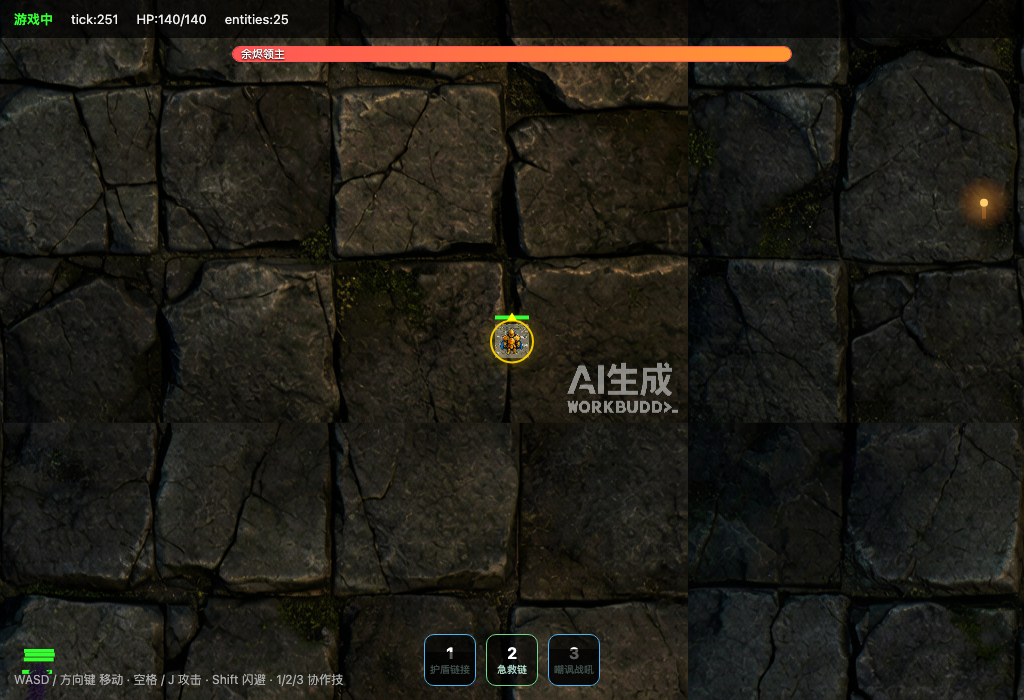
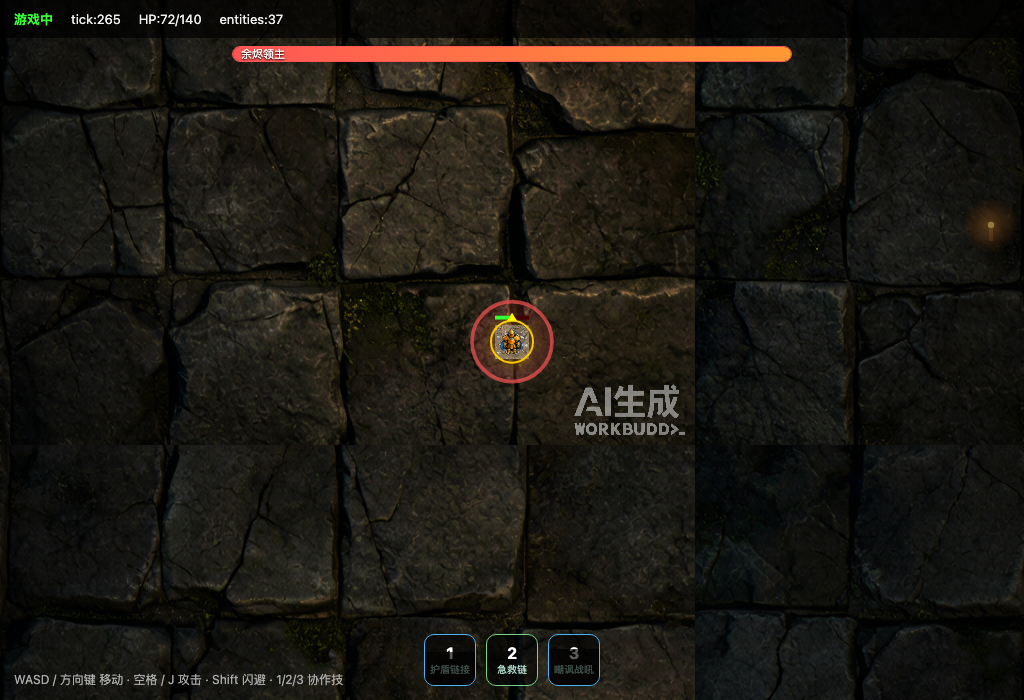
feat(games/dungeon-online): 氛围增强（暗角 vignette + 地牢环境音效）
- 新增屏幕暗角 radial-gradient，聚焦玩家并加深地牢氛围。
- 新增 WebAudio 低频环境 drone（52Hz + LFO），首次按键时启动。
- verify-client.mjs 真浏览器验证全绿（CoV 0.233，无报错）。

diff --git a/games/dungeon-online/apps/web-client/index.html b/games/dungeon-online/apps/web-client/index.html
@@ -220,9 +220,11 @@ function castSkill(id) {
 
 // ── WebAudio SFX (procedural, no asset files) ──
 let actx = null;
+let droneOsc = null, droneGain = null;
 function ensureAudio() {
   if (actx) { if (actx.state === 'suspended') actx.resume(); return; }
   try { actx = new (window.AudioContext || window.webkitAudioContext)(); } catch { actx = null; }
+  if (actx) startAmbient();
 }
 function tone(freq, dur, type, gain, when, slideTo) {
   if (!actx) return;
@@ -244,6 +246,17 @@ function sfxDeath() { tone(300, 0.30, 'sawtooth', 0.09, 0, 70); }
 function sfxPickup() { tone(660, 0.08, 'triangle', 0.10); tone(900, 0.11, 'triangle', 0.08, 0.07); }
 function sfxSkill() { tone(520, 0.12, 'triangle', 0.10, 0, 780); tone(780, 0.14, 'triangle', 0.08, 0.06); }
 function sfxDenied() { tone(150, 0.10, 'square', 0.05); }
+function startAmbient() {
+  if (!actx || droneOsc) return;
+  droneOsc = actx.createOscillator(); droneOsc.type = 'sine'; droneOsc.frequency.value = 52;
+  droneGain = actx.createGain(); droneGain.gain.value = 0.018;
+  droneOsc.connect(droneGain); droneGain.connect(actx.destination);
+  droneOsc.start();
+  const lfo = actx.createOscillator(); lfo.frequency.value = 0.12;
+  const lfoGain = actx.createGain(); lfoGain.gain.value = 0.010;
+  lfo.connect(lfoGain); lfoGain.connect(droneGain.gain);
+  lfo.start();
+}
 
 ws.onopen = () => {
   state = 'auth';
@@ -765,6 +778,17 @@ function draw() {
   drawFloaters();
 
   ctx.restore();
+
+  // ── screen-space vignette (dungeon atmosphere) ──
+  ctx.save();
+  const vr = Math.max(canvas.width, canvas.height) * 0.55;
+  const vg = ctx.createRadialGradient(canvas.width / 2, canvas.height / 2, 60, canvas.width / 2, canvas.height / 2, vr);
+  vg.addColorStop(0, 'rgba(0,0,0,0)');
+  vg.addColorStop(0.6, 'rgba(0,0,0,0.18)');
+  vg.addColorStop(1, 'rgba(0,0,0,0.55)');
+  ctx.fillStyle = vg; ctx.fillRect(0, 0, canvas.width, canvas.height);
+  ctx.restore();
+
   // WEB-FEEL：每帧上报移动输入（≈60Hz），确保权威模拟每个 tick 都收到 MOVE →
   // 玩家以真实 CLASS_BASE.moveSpeed（tank=210px/s）移动，而非被旧 100ms 轮询饿成 ~70px/s。
   // 保留 sendInput / sendJson 的 input.cmd 包装与攻击自动选敌（Space/J 在 keydown 中发送，未改动）。
